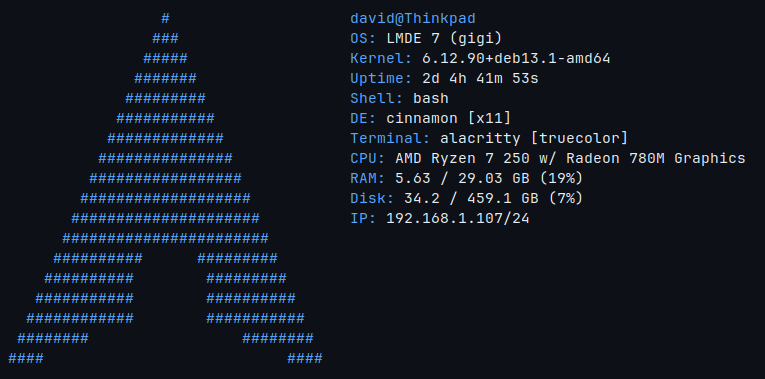
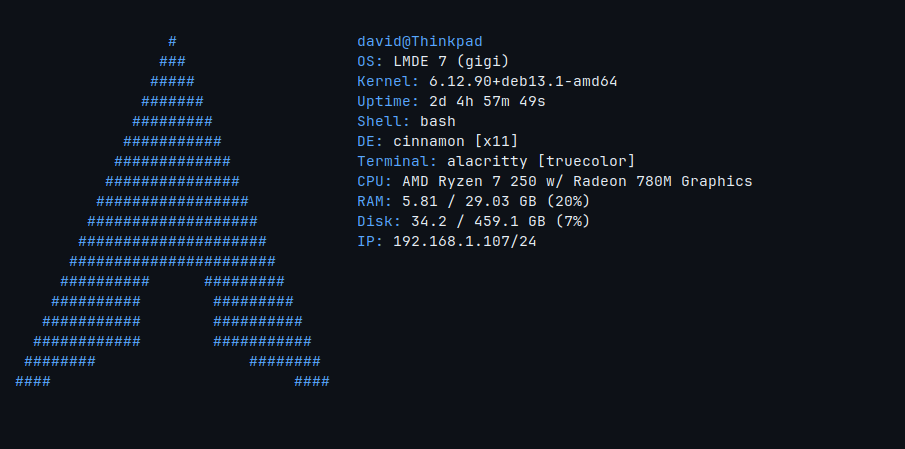
Added output example images

diff --git a/internal/output/output.go b/internal/output/output.go
@@ -50,6 +50,7 @@ func PrintOutput(asciiLines, infoLines []string, asciiColor string) {
 	width := getMaxWidth(asciiLines)
 
 	total := max(len(asciiLines), len(infoLines))
+	fmt.Printf("\n\n\n\n\n\n\n\n")
 	for i := 0; i < total; i++ {
 		var left, right string
 
@@ -62,6 +63,7 @@ func PrintOutput(asciiLines, infoLines []string, asciiColor string) {
 
 		fmt.Printf("%s%-*s\x1b[0m %s\n", asciiColor, width, left, right)
 	}
+	fmt.Printf("\n\n\n\n\n\n\n\n")
 }
 
 func getMaxWidth(lines []string) int {

diff --git a/README.md b/README.md
@@ -4,12 +4,12 @@ A clean and practical system information tool focused on clean, easy to understa
 
 <table>
   <tr>
-    <td><img src="image/default_output_example_pop.png" alt="Pop!_OS example" width="100%"></td>
-    <td><img src="image/default_output_example_debian.png" alt="Debian example" width="100%"></td>
+    <td><img src="image/default_output_example_mint.png" alt="default Linux mint output example" width="100%"></td>
+    <td><img src="image/default_output_example_debian.png" alt="default Debian output example" width="100%"></td>
   </tr>
   <tr>
-    <td><img src="image/default_output_example_arch.png" alt="Arch example" width="100%"></td>
-    <td><img src="image/default_output_example_fedora.png" alt="Fedora example" width="100%"></td>
+    <td><img src="image/default_output_example_arch.png" alt="default Arch output example" width="100%"></td>
+    <td><img src="image/default_output_example_ubuntu.png" alt="default Ubuntu output example" width="100%"></td>
   </tr>
 </table>
 